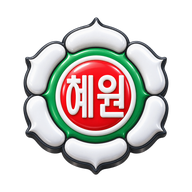
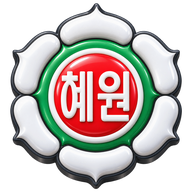
v1.2.9 — 마스크용 아이콘 로고 최대한 크게

diff --git a/index.html b/index.html
@@ -228,15 +228,15 @@ table.tt td.today{background:color-mix(in srgb,var(--accent) 9%,var(--card))}
 
 <script>
 /* ══════════════════════════════════════════════════════════
-   혜원이지 | @version 1.2.8
-   수정요약: v1.2.8 앱 아이콘 — 로고를 틀 가득(any 98%·maskable 안전영역 가득) 크게, 배경 투명. / v1.2.7 표 안 글은 원래 줄바꿈 자리에서만 줄바꿈(자동 꺾임 없음) — 넓으면 좌우로 밀어 봄. / v1.2.6 주간업무 읽기 쉽게 — 줄간격 넓힘·번호/기호 내어쓰기와 단계별 들여쓰기·표를 가로로 밀어 보게 하고 짧은 칸은 한 줄로·표 머리줄/줄무늬. / v1.2.5 새로고침해도 옛 판이 뜨던 것(서비스워커) 수정 — sw.js 머리말 참고. / v1.2.4 학사일정 «1년 전체» 칩 + 묵은 탭(ok:false)이 같은 달로 겹쳐 나오던 것 제거. / v1.2.3 학사일정 — 타일 이름을 «학사일정» 으로, 달 칩으로 다른 달도 본다. / v1.2.2 타일 이모지(📘🍚📅📋🔗)를 선 아이콘으로. / v1.2.1 로그인 뒤 홈 머리글에 로고 · 화면에 보이는 버전 표기를 맞춤(그전엔 1.1.0 으로 남아 있었다). / v1.2.0 로그인 화면 로고와 설치용 앱 아이콘을 «혜원» 꽃 3D 로고(투명 배경)로 · icon-192 추가. / v1.1.0 이름을 «혜원이지» 로. / v1.0.0 첫 판 — 타일 홈 + 시간표·급식·학사일정·주간업무·바로가기
+   혜원이지 | @version 1.2.9
+   수정요약: v1.2.9 마스크용 아이콘 — 로고 외접원이 캔버스를 가득(99%) 채우게 키움(흰 틀이 최대한 가려지게). / v1.2.8 앱 아이콘 — 로고를 틀 가득(any 98%·maskable 안전영역 가득) 크게, 배경 투명. / v1.2.7 표 안 글은 원래 줄바꿈 자리에서만 줄바꿈(자동 꺾임 없음) — 넓으면 좌우로 밀어 봄. / v1.2.6 주간업무 읽기 쉽게 — 줄간격 넓힘·번호/기호 내어쓰기와 단계별 들여쓰기·표를 가로로 밀어 보게 하고 짧은 칸은 한 줄로·표 머리줄/줄무늬. / v1.2.5 새로고침해도 옛 판이 뜨던 것(서비스워커) 수정 — sw.js 머리말 참고. / v1.2.4 학사일정 «1년 전체» 칩 + 묵은 탭(ok:false)이 같은 달로 겹쳐 나오던 것 제거. / v1.2.3 학사일정 — 타일 이름을 «학사일정» 으로, 달 칩으로 다른 달도 본다. / v1.2.2 타일 이모지(📘🍚📅📋🔗)를 선 아이콘으로. / v1.2.1 로그인 뒤 홈 머리글에 로고 · 화면에 보이는 버전 표기를 맞춤(그전엔 1.1.0 으로 남아 있었다). / v1.2.0 로그인 화면 로고와 설치용 앱 아이콘을 «혜원» 꽃 3D 로고(투명 배경)로 · icon-192 추가. / v1.1.0 이름을 «혜원이지» 로. / v1.0.0 첫 판 — 타일 홈 + 시간표·급식·학사일정·주간업무·바로가기
 
    ★ 폰은 아무것도 긁지 않는다. «다리»(GAS)가 다 긁어서 정리해 준 것만 받는다.
      폰 브라우저는 남의 사이트를 직접 못 부르기 때문이다(같은 출처 규칙).
    ★ 드롭다운(select)은 쓰지 않는다 — 칩·단추로 고른다.
    ══════════════════════════════════════════════════════════ */
 
-var VERSION = '1.2.8';
+var VERSION = '1.2.9';
 var BRIDGE = 'https://script.google.com/macros/s/'
[1 lines of base64/hex data omitted]
 

diff --git a/sw.js b/sw.js
@@ -1,4 +1,4 @@
-/* 혜원이지 서비스워커 | @version 1.2.8
+/* 혜원이지 서비스워커 | @version 1.2.9
    ★ v1.2.5 — «새로고침해도 옛 판(1.2.2)» 이 나오던 것을 고쳤다. 원인 둘:
      ① 설치할 때 addAll 이 브라우저(HTTP) 캐시를 거쳐서, GitHub Pages 의 10분 캐시 때문에 «새 서비스워커가 옛 index.html 을 담는» 일이 있었다 → cache:'reload' 로 늘 서버에서 받는다.
      ② 화면(index.html)까지 «캐시 먼저» 라 새 판이 있어도 옛 판이 먼저 떴다 → 화면은 «서버 먼저, 안 되면 캐시».
@@ -11,7 +11,7 @@
        ③ controllerchange   — 바뀌면 화면이 스스로 새로고침한다    (index.html)
        ④ visibilitychange   — 앞으로 나올 때마다 새 판을 «찾아본다» (index.html)
      ④ 가 없으면 ①②③ 이 다 있어도 소용없다. 찾아보질 않으니 발견을 못 한다. */
-var CACHE = 'phone-v1.2.8';
+var CACHE = 'phone-v1.2.9';
 var ASSETS = ['./', './index.html', './manifest.webmanifest', './icon-512.png', './icon-192.png'];
 
 self.addEventListener('install', function (e) {
